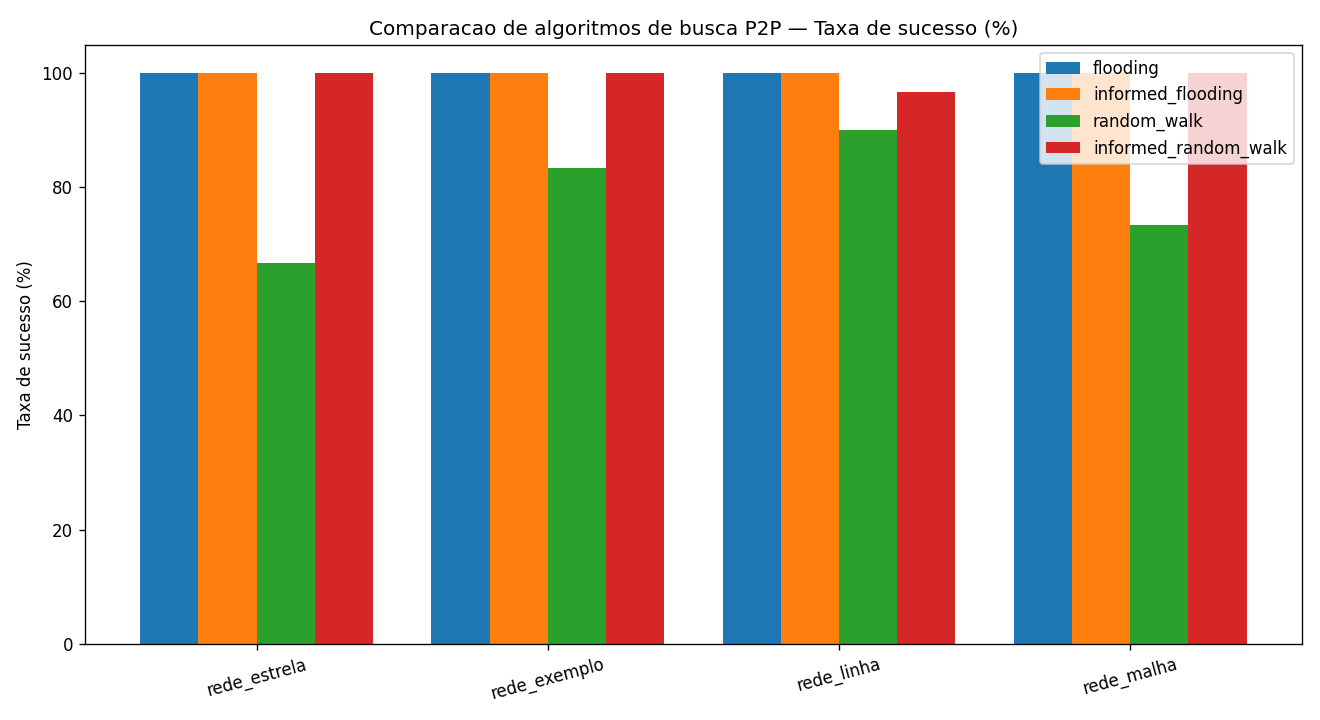
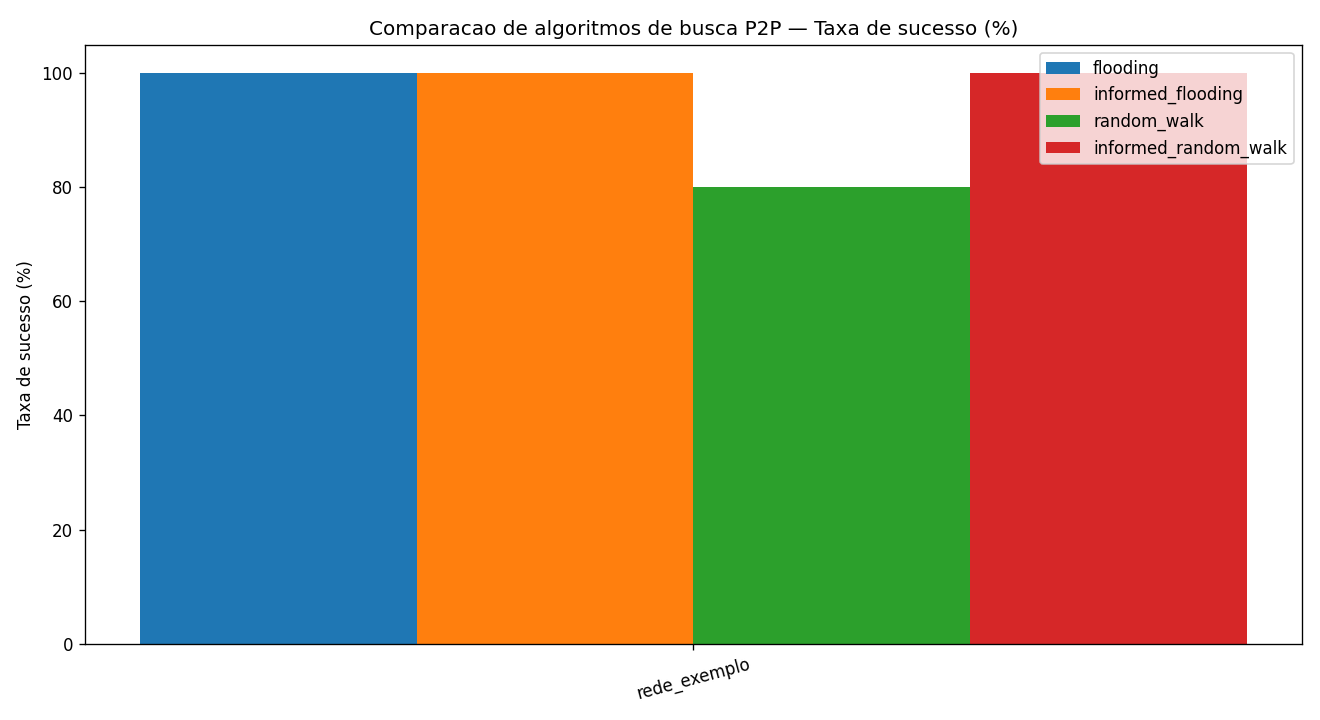
Refine network validation and benchmarking metrics; update documentation and output files

diff --git a/benchmark.py b/benchmark.py
@@ -4,7 +4,9 @@ benchmark.py — Testes comparativos entre os algoritmos de busca.
 Compara flooding, informed_flooding, random_walk e informed_random_walk em
 diferentes topologias, medindo:
     - numero medio de mensagens trocadas
+    - p95 de mensagens trocadas
     - numero medio de nos envolvidos
+    - p95 de nos envolvidos
     - taxa de sucesso
 
 Gera uma tabela no terminal e graficos de barras (salvos em PNG).
@@ -25,6 +27,25 @@ from search import search
 ALGOS = ["flooding", "informed_flooding", "random_walk", "informed_random_walk"]
 REPETICOES = 30   # repete buscas aleatorias p/ tirar media (algoritmos com random)
 SEED = 123
+
+
+def _percentil(valores, pct):
+    """Calcula percentil com interpolacao linear, sem depender de numpy."""
+    if not valores:
+        return 0.0
+    ordenados = sorted(valores)
+    if len(ordenados) == 1:
+        return float(ordenados[0])
+
+    pos = (len(ordenados) - 1) * (pct / 100.0)
+    baixo = int(pos)
+    alto = min(baixo + 1, len(ordenados) - 1)
+    if baixo == alto:
+        return float(ordenados[baixo])
+
+    peso_alto = pos - baixo
+    peso_baixo = 1.0 - peso_alto
+    return ordenados[baixo] * peso_baixo + ordenados[alto] * peso_alto
 
 
 def _todos_recursos(net):
@@ -61,19 +82,23 @@ def avaliar_rede(path, ttl=None):
 
     metricas = {}
     for algo in ALGOS:
-        msgs_total = nos_total = sucessos = 0
+        msgs_amostras = []
+        nos_amostras = []
+        sucessos = 0
         # cache das buscas informadas e' reiniciado por algoritmo para medir do zero
         for node in net.nodes.values():
             node.cache.clear()
         for origem, recurso in pares:
             r = search(net, origem, recurso, ttl, algo, rng=rng)
-            msgs_total += r.total_messages
-            nos_total += len(r.nodes_involved)
+            msgs_amostras.append(r.total_messages)
+            nos_amostras.append(len(r.nodes_involved))
             sucessos += 1 if r.found else 0
         n = len(pares)
         metricas[algo] = {
-            "msgs": msgs_total / n,
-            "nos": nos_total / n,
+            "msgs": sum(msgs_amostras) / n,
+            "msgs_p95": _percentil(msgs_amostras, 95),
+            "nos": sum(nos_amostras) / n,
+            "nos_p95": _percentil(nos_amostras, 95),
             "sucesso": 100.0 * sucessos / n,
         }
     return net, metricas
@@ -81,11 +106,16 @@ def avaliar_rede(path, ttl=None):
 
 def imprimir_tabela(nome_rede, metricas):
     print(f"\n  === {nome_rede} ===")
-    print(f"  {'Algoritmo':<22}{'Msgs(med)':>11}{'Nos(med)':>11}{'Sucesso%':>11}")
-    print("  " + "-" * 55)
+    print(f"  {'Algoritmo':<22}{'Msgs(med)':>11}{'Msgs(p95)':>11}{'Nos(med)':>11}{'Nos(p95)':>11}{'Sucesso%':>11}")
+    print("  " + "-" * 77)
     for algo in ALGOS:
         m = metricas[algo]
-        print(f"  {algo:<22}{m['msgs']:>11.1f}{m['nos']:>11.1f}{m['sucesso']:>11.1f}")
+        print(
+            f"  {algo:<22}"
+            f"{m['msgs']:>11.1f}{m['msgs_p95']:>11.1f}"
+            f"{m['nos']:>11.1f}{m['nos_p95']:>11.1f}"
+            f"{m['sucesso']:>11.1f}"
+        )
 
 
 def gerar_grafico(resultados, metrica="msgs", ylabel="Mensagens (media)",
@@ -129,7 +159,9 @@ def run_benchmark(paths):
     if resultados:
         print()
         gerar_grafico(resultados, "msgs", "Mensagens (media)", "benchmark_msgs.png")
+        gerar_grafico(resultados, "msgs_p95", "Mensagens (p95)", "benchmark_msgs_p95.png")
         gerar_grafico(resultados, "nos", "Nos envolvidos (media)", "benchmark_nos.png")
+        gerar_grafico(resultados, "nos_p95", "Nos envolvidos (p95)", "benchmark_nos_p95.png")
         gerar_grafico(resultados, "sucesso", "Taxa de sucesso (%)", "benchmark_sucesso.png")
     return resultados
 

diff --git a/network.py b/network.py
@@ -138,6 +138,19 @@ class Network:
         results = []
         ok = True
 
+        # 0. O cabecalho deve bater com os nos realmente definidos no arquivo.
+        if self.num_nodes <= 0:
+            ok = False
+            results.append(("Quantidade de nos", False,
+                            "num_nodes deve ser maior que zero."))
+        elif len(self.nodes) != self.num_nodes:
+            ok = False
+            results.append(("Quantidade de nos", False,
+                            f"Declarado num_nodes={self.num_nodes}, mas foram encontrados {len(self.nodes)} nos."))
+        else:
+            results.append(("Quantidade de nos", True,
+                            f"Quantidade declarada confere: {self.num_nodes} nos."))
+
         # 4. Não pode haver aresta de um nó para ele mesmo (checa primeiro,
         #    pois afeta a contagem de vizinhos)
         self_loops = [n.id for n in self.nodes.values() if n.id in n.neighbors]

diff --git a/p2p.py b/p2p.py
@@ -118,7 +118,7 @@ MENU = """
    Simulador de Busca em Rede P2P
 ============================================
   1. Carregar arquivo de configuracao
-  2. Validar rede (4 verificacoes)
+  2. Validar rede
   3. Desenhar a rede
   4. Buscar recurso
   5. Rodar testes comparativos (benchmark)

diff --git a/resumo.md b/resumo.md
@@ -88,7 +88,7 @@ facilita contar mensagens e animar a busca, sem mudar a lógica dos algoritmos.
 - `ask()` (linha 19) — `input()` robusto (limpa espaços e o BOM que o Windows
   injeta no stdin redirecionado).
 - `carregar()` (linha 25) — lê o arquivo, roda as validações e mostra o resultado.
-- `mostrar_validacoes()` (linha 47) — exibe as 4 verificações (opção 2 do menu).
+- `mostrar_validacoes()` (linha 47) — exibe as validações (opção 2 do menu).
 - `desenhar()` (linha 55) — desenho gráfico da rede (opção 3).
 - **`pedir_busca()`** (linha 64) — pergunta `node_id`, `resource_id`, `ttl`,
   `algo`, executa a busca e imprime **mensagens + nós envolvidos** (opção 4).
@@ -106,7 +106,7 @@ facilita contar mensagens e animar a busca, sem mudar a lógica dos algoritmos.
 ### 3.5 `benchmark.py` — testes comparativos
 
 - `avaliar_rede()` (linha 38) — roda os 4 algoritmos sobre uma rede, com vários
-  pares (origem, recurso), e calcula **médias**: mensagens, nós, % de sucesso.
+  pares (origem, recurso), e calcula **médias e p95**: mensagens, nós, % de sucesso.
 - `imprimir_tabela()` (linha 82) — imprime a tabela no terminal.
 - `gerar_grafico()` (linha 91) — gera os gráficos de barras (PNG).
 - `run_benchmark()` (linha 118) — roda tudo para todas as topologias.
@@ -119,9 +119,11 @@ facilita contar mensagens e animar a busca, sem mudar a lógica dos algoritmos.
 - **Onde:** `network.py::Network.from_file()` (linha 41).
 - Lê `num_nodes`, `min_neighbors`, `max_neighbors`, a seção `resources:` e a
   seção `edges:`. Exemplos prontos em `configs/`.
+- A validação também confere se `num_nodes` bate com a quantidade de nós
+  definidos no arquivo.
 
 ### Requisitos II — as 4 validações
-Todas em `network.py::validate()` (linha 136):
+Em `network.py::validate()` (linha 136), depois da conferência de `num_nodes`:
 1. **Rede não particionada** → via `_is_connected()` (BFS), linha 185.
 2. **Grau entre min e max vizinhos** → laço comparando `len(neighbors)` com
    `min_neighbors`/`max_neighbors`.
@@ -153,7 +155,8 @@ falham; carregar qualquer `configs/*.txt` → todas passam.
 - Compara os algoritmos em **várias topologias** (`configs/`) pelo **número de
   mensagens** (métrica exigida), além de nós envolvidos e taxa de sucesso.
 - Gera as **tabelas** (terminal) e os **gráficos** `benchmark_msgs.png`,
-  `benchmark_nos.png`, `benchmark_sucesso.png` para os slides.
+  `benchmark_msgs_p95.png`, `benchmark_nos.png`, `benchmark_nos_p95.png` e
+  `benchmark_sucesso.png` para os slides.
 
 ---
 

diff --git a/README.md b/README.md
@@ -36,7 +36,7 @@ python p2p.py configs/rede_exemplo.txt # já carrega e valida uma rede
 
 Opções do menu:
 1. Carregar arquivo de configuração
-2. Validar rede (mostra as 4 verificações)
+2. Validar rede
 3. Desenhar a rede (janela gráfica)
 4. Buscar recurso (pede nó de origem, recurso, TTL e algoritmo)
 5. Rodar testes comparativos (benchmark)
@@ -53,7 +53,8 @@ python benchmark.py                       # todas as topologias em configs/
 python benchmark.py configs/rede_malha.txt
 ```
 
-Gera `benchmark_msgs.png`, `benchmark_nos.png` e `benchmark_sucesso.png`.
+Gera `benchmark_msgs.png`, `benchmark_msgs_p95.png`, `benchmark_nos.png`,
+`benchmark_nos_p95.png` e `benchmark_sucesso.png`.
 
 ## Formato do arquivo de configuração
 
@@ -70,6 +71,9 @@ edges:
 ```
 
 ## Validações (Requisitos II)
+
+O carregamento tambem confere se `num_nodes` bate com a quantidade de nos
+definidos no arquivo. Em seguida, executa as 4 verificacoes pedidas no PDF:
 
 1. Rede não pode estar particionada (deve haver caminho entre quaisquer 2 nós).
 2. Grau de cada nó dentro de `[min_neighbors, max_neighbors]`.

diff --git a/PLANO_IMPLEMENTACAO.md b/PLANO_IMPLEMENTACAO.md
@@ -156,7 +156,7 @@ Se alguma falhar, abortar a carga e mostrar mensagem clara do que está errado.
 ```
 === Rede P2P — Busca de Recursos ===
 1. Carregar arquivo de configuração
-2. Validar rede (mostra as 4 verificações)
+2. Validar rede
 3. Desenhar a rede
 4. Buscar recurso  (pergunta: node_id, resource_id, ttl, algo)
        -> imprime: encontrado? onde? total de mensagens, nós envolvidos
@@ -174,10 +174,10 @@ A opção 4 imprime o resultado no formato pedido pelo Requisito III (total de m
 
 - Para **cada topologia** em `configs/` e **cada algoritmo**:
   - rodar buscas variando origem/recurso/TTL (random walk: média de N repetições),
-  - registrar: **nº de mensagens**, **nº de nós envolvidos**, **taxa de sucesso**.
+  - registrar: **nº de mensagens**, **p95 de mensagens**, **nº de nós envolvidos**, **p95 de nós envolvidos**, **taxa de sucesso**.
 - Gerar:
   - **tabela** comparativa (pandas → texto/CSV),
-  - **gráficos de barras** (mensagens médias por algoritmo × topologia; sucesso × TTL).
+  - **gráficos de barras** (mensagens médias e p95 por algoritmo × topologia; nós médios e p95; taxa de sucesso).
 - Esses gráficos vão direto para os slides do entregável.
 
 **Hipóteses esperadas (para discutir nos slides):** flooding acha rápido mas gera MUITAS mensagens; random walk gera poucas mensagens mas pode demorar/falhar com TTL baixo; as versões informadas reduzem mensagens conforme o cache "esquenta".